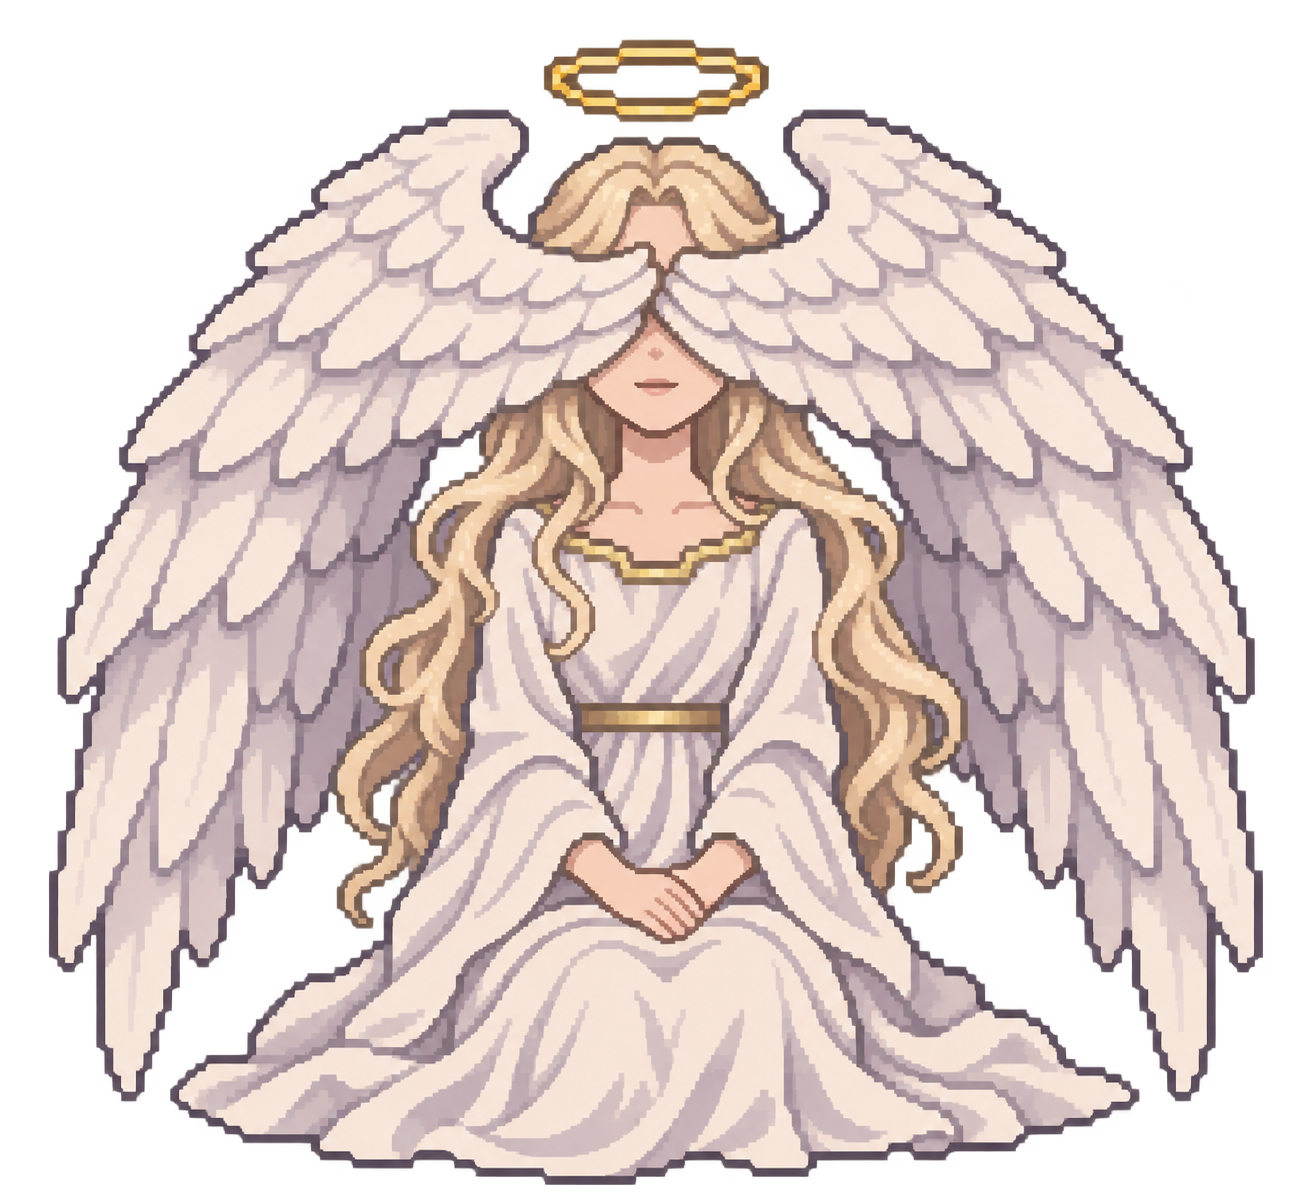
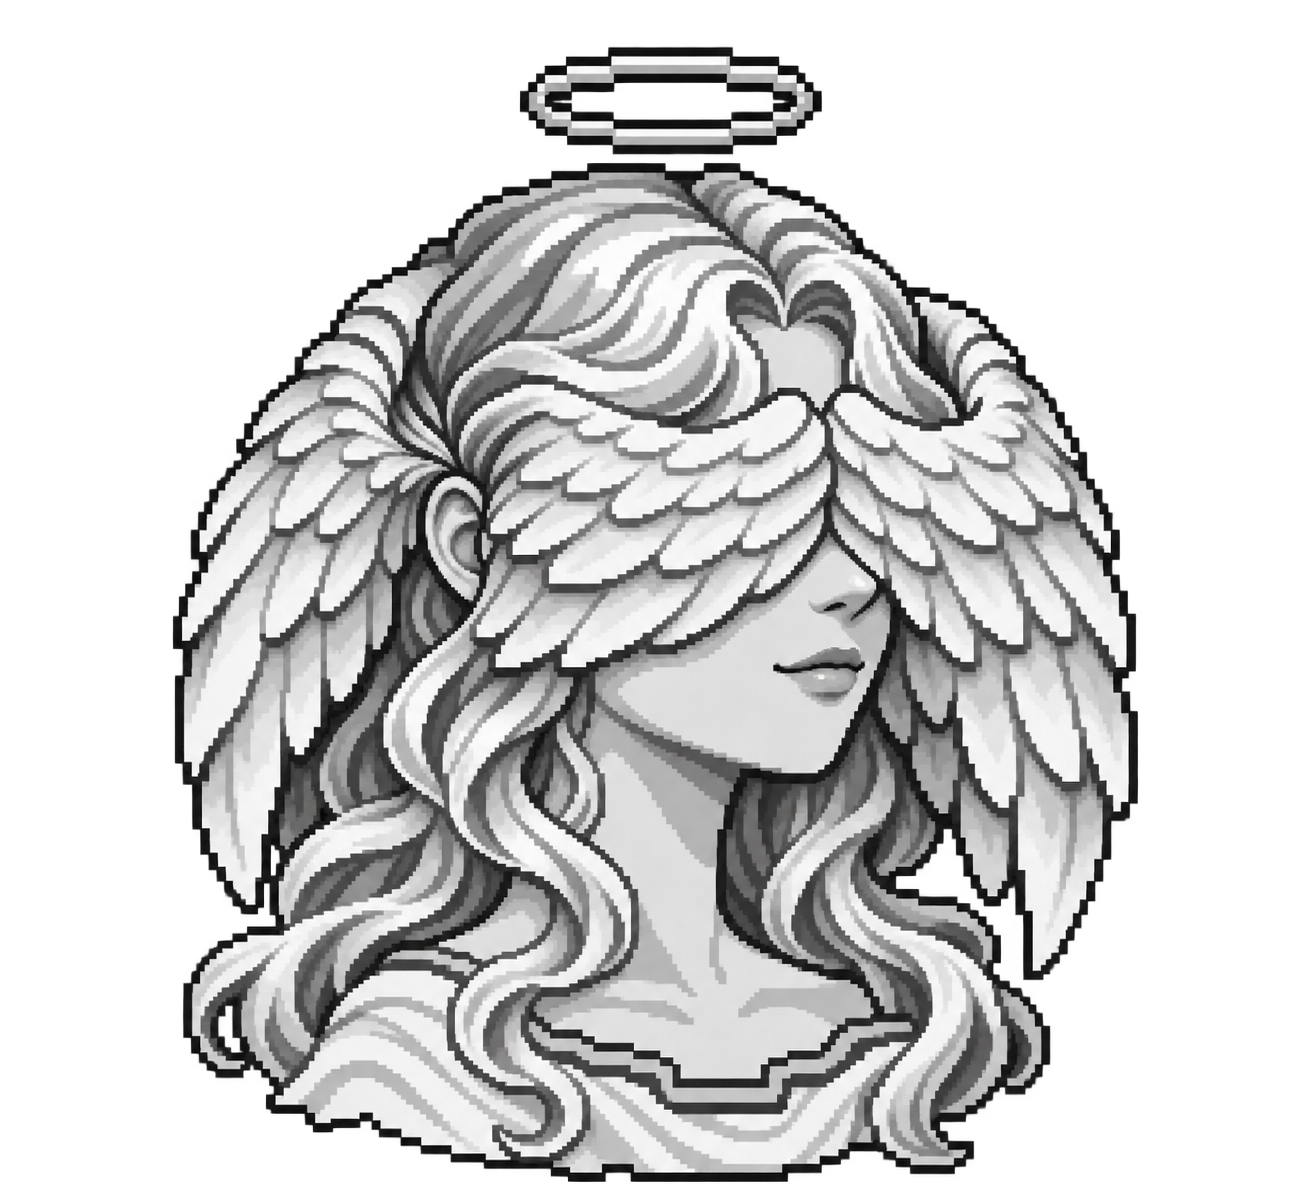
Refine README angel as monochrome three-quarter portrait

diff --git a/README.md b/README.md
@@ -1,7 +1,7 @@
 <div align="center">
 
 <p>
-  <img src="docs/assets/seana-angel.png" width="180" alt="Pixel-art angel with her feathered wings covering her eyes">
+  <img src="docs/assets/seana-angel.png" width="180" alt="Black-and-white pixel-art angel in three-quarter view, with wings emerging from the back of her head and covering her eyes">
 </p>
 
 <h1>SEANA</h1>
